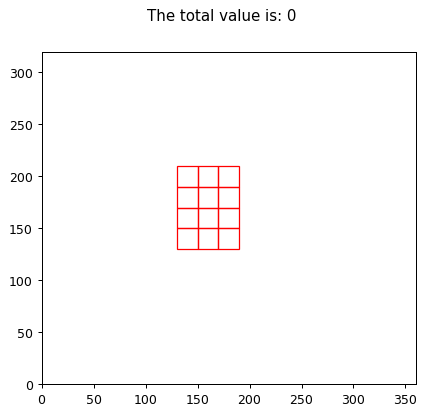
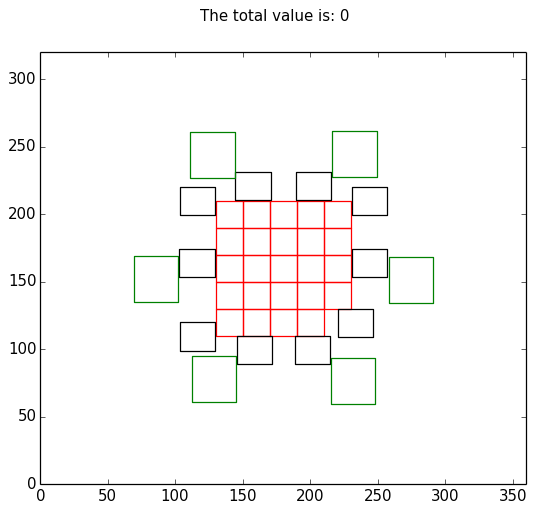
update

diff --git a/expanding_universe.py b/expanding_universe.py
@@ -14,18 +14,16 @@ def main(total_houses):
     buildings = []
 
     # set number of each building type
-    h_number = 0.6 * total_houses
-    b_number = 0.25 * total_houses
-    m_number = 0.15 * total_houses
+    h_number = int(0.6 * total_houses)
+    b_number = int(0.25 * total_houses)
+    m_number = int(0.15 * total_houses)
 
     # build houses in middle of map
     grid_size = int(math.ceil(math.sqrt(h_number)))
     counter = 0
     for i in range(grid_size):
 
-        x = (X_DIMENSION + (classes.House.width * (2 * i - grid_size - 1))) / 2
-
-        # x = (X_DIMENSION / 2) + classes.House.width * (i - (grid_size / 2))
+        x = (X_DIMENSION - (classes.House.width * (grid_size - (2 * i)))) / 2
 
 
         for j in range(grid_size):
@@ -33,22 +31,154 @@ def main(total_houses):
             if counter == h_number:
                 break
 
-            y = (Y_DIMENSION + (classes.House.width * (-2 * j + grid_size - 1))) / 2
-
-            # y = (Y_DIMENSION / 2) + (classes.House.length * ((grid_size / 2) - j))
+            y = (Y_DIMENSION + (classes.House.length * (grid_size - 2 - (2 * j)))) / 2
 
             counter += 1
             house = classes.House(x, y)
             buildings.append(house)
 
+    # place bungalows around houses
+    r = (classes.House.width / 2) * (grid_size + 1)
+    t = ((2 * math.pi) / (b_number))
 
-    # r = (grid_size / 2) * math.sqrt(2) * classes.House.width
-    # x = a + r.cos(t)
-    # y = b + r.sin(t)
+    for i in range(b_number):
+
+        x = ((X_DIMENSION - classes.Bungalow.width) / 2) + r * math.cos(t * i)
+        y = ((Y_DIMENSION - classes.Bungalow.length) / 2) + r * math.sin(t * i)
+
+        bungalow = classes.Bungalow(x, y)
+        for building in buildings:
+            olap = helpers.overlap(bungalow, building)
+
+            if (bungalow.left_bottom[0] < X_DIMENSION / 2) and (building.left_bottom[1] > Y_DIMENSION / 2) and olap:
+                while olap == True:
+                    bungalow = helpers.move(bungalow, 'left')
+                    bungalow = helpers.move(bungalow, 'up')
+                    olap = helpers.overlap(bungalow, building)
+
+            if (bungalow.left_bottom[0] < X_DIMENSION / 2) and (building.left_bottom[1] < Y_DIMENSION / 2) and olap:
+                while olap == True:
+                    bungalow = helpers.move(bungalow, 'left')
+                    bungalow = helpers.move(bungalow, 'down')
+                    olap = helpers.overlap(bungalow, building)
+
+            if (bungalow.left_bottom[0] > X_DIMENSION / 2) and (building.left_bottom[1] < Y_DIMENSION / 2) and olap:
+                while olap == True:
+                    bungalow = helpers.move(bungalow, 'right')
+                    bungalow = helpers.move(bungalow, 'down')
+                    olap = helpers.overlap(bungalow, building)
+
+            if (bungalow.left_bottom[0] > X_DIMENSION / 2) and (building.left_bottom[1] > Y_DIMENSION / 2) and olap:
+                while olap == True:
+                    bungalow = helpers.move(bungalow, 'right')
+                    bungalow = helpers.move(bungalow, 'up')
+                    olap = helpers.overlap(bungalow, building)
+
+        buildings.append(bungalow)
+
+
+    r = (classes.House.width / 2) * (grid_size + 1) + classes.Bungalow.width
+    t = ((2 * math.pi) / (m_number))
+    for i in range(m_number):
+
+        x = ((X_DIMENSION - classes.Maison.width) / 2) + r * math.cos(t * i)
+        y = ((Y_DIMENSION - classes.Maison.length) / 2) + r * math.sin(t * i)
+
+        maison = classes.Maison(x, y)
+        for building in buildings:
+            olap = helpers.overlap(maison, building)
+
+            if (maison.left_bottom[0] < X_DIMENSION / 2) and (building.left_bottom[1] > Y_DIMENSION / 2) and olap:
+                while olap == True:
+                    maison = helpers.move(maison, 'left')
+                    maison = helpers.move(maison, 'up')
+                    olap = helpers.overlap(maison, building)
+
+            if (maison.left_bottom[0] < X_DIMENSION / 2) and (building.left_bottom[1] < Y_DIMENSION / 2) and olap:
+                while olap == True:
+                    maison = helpers.move(maison, 'left')
+                    maison = helpers.move(maison, 'down')
+                    olap = helpers.overlap(maison, building)
+
+            if (maison.left_bottom[0] > X_DIMENSION / 2) and (building.left_bottom[1] < Y_DIMENSION / 2) and olap:
+                while olap == True:
+                    maison = helpers.move(maison, 'right')
+                    maison = helpers.move(maison, 'down')
+                    olap = helpers.overlap(maison, building)
+
+            if (maison.left_bottom[0] > X_DIMENSION / 2) and (building.left_bottom[1] > Y_DIMENSION / 2) and olap:
+                while olap == True:
+                    maison = helpers.move(maison, 'right')
+                    maison = helpers.move(maison, 'up')
+                    olap = helpers.overlap(maison, building)
+
+        buildings.append(maison)
+
+
+    # for building in buildings:
+    #     if building.name == 'bungalow':
     #
-    # for i in range(b_number):
+    #         bungalow = building
     #
-    #     x = (X_DIMENSION / 2) - grid_size
+    #         for building in buildings:
+    #             olap = True
+    #
+    #             while olap:
+    #                 olap = helpers.overlap(bungalow, building)
+    #
+    #                 if (bungalow.left_bottom[0] < X_DIMENSION / 2) and (building.left_bottom[1] > Y_DIMENSION / 2) and olap:
+    #
+    #                         bungalow1 = helpers.move(bungalow, 'left')
+    #                         bungalow = helpers.move(bungalow1, 'up')
+    #
+    #                 else:
+    #                     break
+
+
+
+    # while len(buildings) < (h_number + b_number):
+    #
+    #     for building in buildings:
+    #         if building.right_top[0] > (X_DIMENSION / 2)
+
+    # b_side = int(math.ceil(b_number / 4.0))
+    #
+    # r = (grid_size / 2) * math.sqrt(2) * classes.House.width + 30
+    # t = ((2 * math.pi) / (b_number))
+    # xlist = []
+    # ylist = []
+    # print b_number
+    # for i in range(b_side):
+    #     angle = math.atan(math.tan(t * i - (math.pi / 4)))
+    #     x = (X_DIMENSION + classes.House.width * grid_size) / 2
+    #     y = (Y_DIMENSION + (math.tan(angle) * classes.House.width * grid_size)) / 2
+    #
+    #     # r = math.sqrt(((grid_size / 2) * classes.House.width)**2 + (i * classes.House.length)**2)
+    #
+    #     # x = ((X_DIMENSION - classes.House.width) / 2) + r * math.cos(t * i)
+    #     # y = ((Y_DIMENSION - classes.House.length) / 2) + r * math.sin(t * i)
+    #
+    #     bungalow = classes.Bungalow(x, y)
+    #     buildings.append(bungalow)
+    #
+    #     # x = math.cos(t * i - (math.pi / 4))
+    #     # y = math.sin(t * i - (math.pi / 4))
+    #     print "x=", x, "y=", y, "angle=", math.tan(angle)
+    #     angle =  math.atan(abs(y / x)) * 57.2
+    #     print "angle=", angle
+    #     b = math.atan(math.tan(t * i - (math.pi / 4)))
+    #     print "andere angle=", b
+    #     xlist.append(x)
+    #     ylist.append(y)
+
+        # print b
+
+    # plt.plot(xlist, ylist, 'ro')
+    # plt.axis([min(xlist), max(xlist), min(ylist), max(ylist)])
+    # plt.show()
+
+
+
 
 
     return buildings

diff --git a/main.py b/main.py
@@ -3,6 +3,8 @@ import expanding_universe
 import visualisation
 import hillclimber_algoritm
 
+import helpers
+
 
 if __name__ == "__main__":
 
@@ -37,5 +39,7 @@ if __name__ == "__main__":
         algoritm = "expanding_universe"
 
         buildings = expanding_universe.main(total_houses)
+
+        print "score is: ", helpers.calculate_score(buildings)
 
         visualisation.main(buildings, algoritm, total_houses, 0, False)
